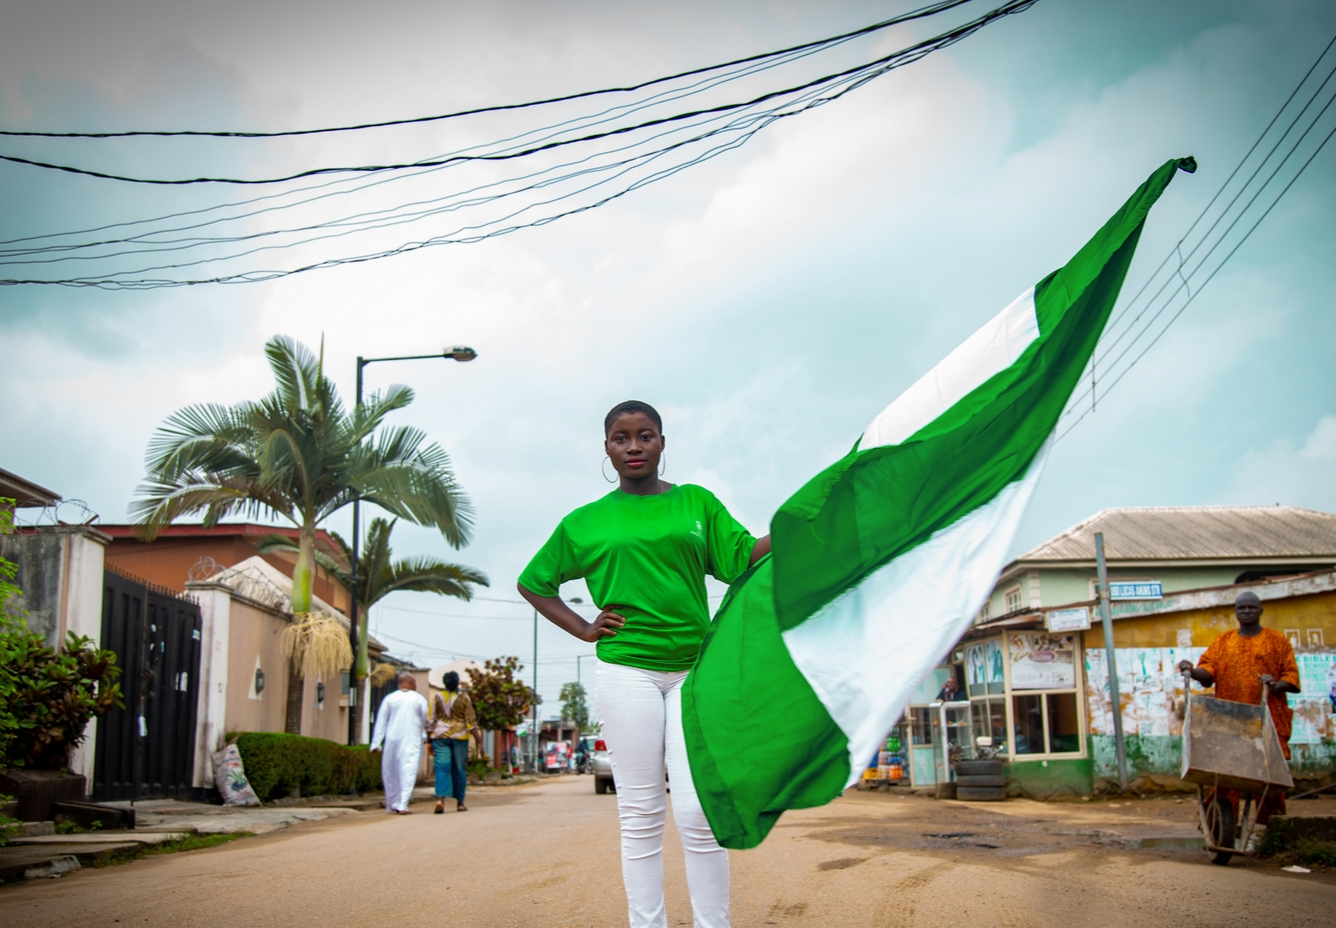
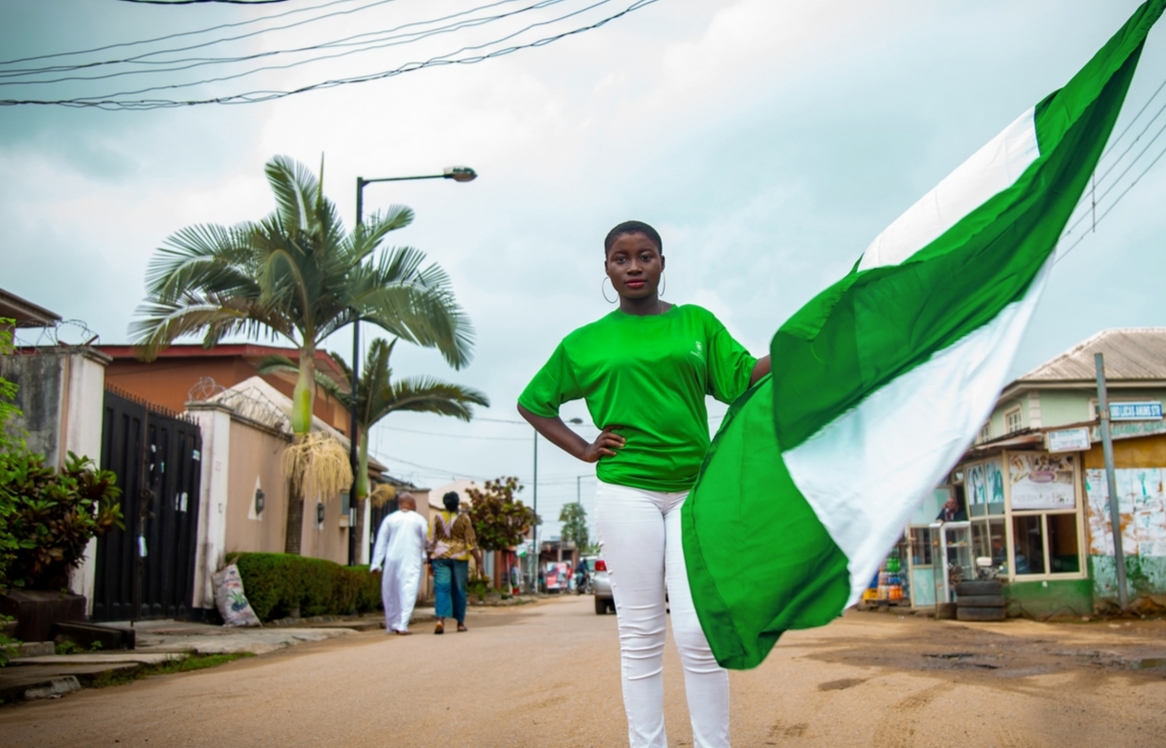
Update where it began image

diff --git a/src/application/views/Homepage/styles.module.css b/src/application/views/Homepage/styles.module.css
@@ -417,7 +417,7 @@
   height: 100%;
   object-fit: cover;
   position: absolute;
-  top: 0;
+  bottom: 0;
   left: 0;
 }
 
